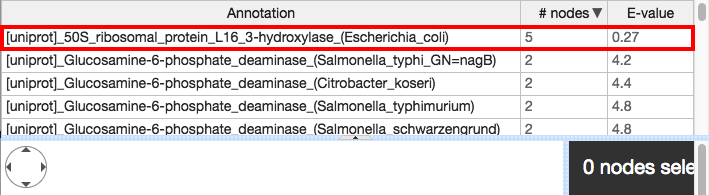
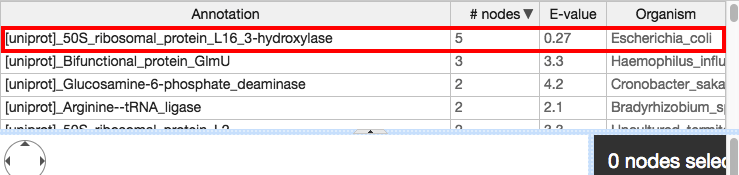
Last updates for v0.4.8
Former-commit-id: ce5c0e4a3a1a0e53fdb1623cb083cbd98e5ea13d

diff --git a/README.md b/README.md
@@ -146,12 +146,11 @@ described in section "DBGWAS in a nutshell" and in our paper (ref at
 the end of the README) produces 54,397,312 kmers which are compressed
 into 2,356,052 unitigs corresponding to 1,141,877 unique patterns.
 
-The analysis runs in about 40 minutes on a PC with 8 Intel(R) Xeon(R)
-CPU E5-1620 0 @ 3.60GHz cores, although most of the operations only
-use a single core at the moment.
+On a machine with 8 Intel(R) Xeon(R) CPU E5-2620 v3 @ 2.40GHz cores, the analysis runs in:
 
-With do.lineage=TRUE, memory usage peaks at ~15Gb, vs ~9Gb with
-do.lineage=FALSE.
+* XXX minutes and has YYYGb memory usage peak if the newick tree file and the annotation DBs are not given (lineage effect analysis and annotations are skipped);
+* 80 minutes and has 13.6Gb memory usage peak if the newick tree file and the annotation DBs are given (lineage effect analysis and annotations are processed);
+
 
 Scaling on new datasets will essentially depend on the number of
 strains and the number of unique presence/absence patterns obtained
@@ -177,14 +176,14 @@ DBGWAS_xyz_tag=<value>;
 
 ```DBGWAS_general_tag``` will be the value shown for this annotation in the summary page.
 
-```DBGWAS_specific_tag``` will be the value shown for this annotation in the graph page. *It is advised that ```DBGWAS_specific_tag``` to be unique.*
+```DBGWAS_specific_tag``` will be the value shown for this annotation in the graph page. **It is advised that ```DBGWAS_specific_tag``` to be unique.**
 
 ```DBGWAS_xyz_tag``` will be a column ```xyz``` added to the annotation table in the graph page to make it easier to analyse the annotations found by DBGWAS. With this tag, you could specify, for example, from which organism the annotation comes. There are no limits on the number of ```DBGWAS_xyz_tag``` one can use.
 
 
-For example, if we add both tags to our previous example (scroll to the right to see the tags):
+For example, if we add three tags to our previous example (scroll to the right to see the tags):
 ```
->sp|P27431|ROXA_ECOLI 50S ribosomal protein L16 3-hydroxylase OS=Escherichia coli (strain K12) GN=roxA PE=1 SV=2;DBGWAS_general_tag=ROXA;DBGWAS_specific_tag=[uniprot] 50S ribosomal protein L16 3-hydroxylase (Escherichia coli)
+>sp|P27431|ROXA_ECOLI 50S ribosomal protein L16 3-hydroxylase OS=Escherichia coli (strain K12) GN=roxA PE=1 SV=2;DBGWAS_general_tag=ROXA;DBGWAS_specific_tag=[uniprot] 50S ribosomal protein L16 3-hydroxylase;DBGWAS_Organism_tag=Escherichia coli
 MEYQLTLNWPDFLERHWQKRPVVLKRGFNNFIDPISPDELAGLAMESEVDSRLVSHQDGK
 WQVSHGPFESYDHLGETNWSLLVQAVNHWHEPTAALMRPFRELPDWRIDDLMISFSVPGG
 GVGPHLDQYDVFIIQGTGRRRWRVGEKLQMKQHCPHPDLLQVDPFEAIIDEELEPGDILY
